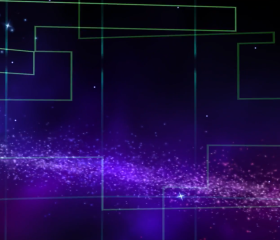
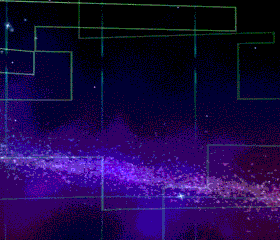
Disable sprite WSG dithering Bound transparent pixels better Dither source fighter background

diff --git a/spiffs_file_preprocessor/image_processor.c b/spiffs_file_preprocessor/image_processor.c
@@ -167,8 +167,10 @@ void process_image(const char *infile, const char *outdir)
 			image8b[y][x].r = CLAMP((127 + ((sourceR + image8b[y][x].eR) * 5)) / 255, 0, 5);
 			image8b[y][x].g = CLAMP((127 + ((sourceG + image8b[y][x].eG) * 5)) / 255, 0, 5);
 			image8b[y][x].b = CLAMP((127 + ((sourceB + image8b[y][x].eB) * 5)) / 255, 0, 5);
-			image8b[y][x].a = sourceA ? 0xFF : 0x00;
+			image8b[y][x].a = (sourceA >= 128) ? 0xFF : 0x00;
 
+// Don't dither small sprites, it just doesn't look good
+#if defined(DITHER)
 			/* Find the total error, 8 bits per channel */
 			int teR = sourceR - ((image8b[y][x].r * 255) / 5);
 			int teG = sourceG - ((image8b[y][x].g * 255) / 5);
@@ -201,6 +203,7 @@ void process_image(const char *infile, const char *outdir)
 			spreadError(image8b, x + 1, y + 0, w, h, teR, teG, teB, adjScalar);
 			spreadError(image8b, x + 0, y - 1, w, h, teR, teG, teB, adjScalar);
 			spreadError(image8b, x + 0, y + 1, w, h, teR, teG, teB, adjScalar);
+#endif
 
 			/* Mark the random pixel as drawn */
 			image8b[y][x].isDrawn = true;
